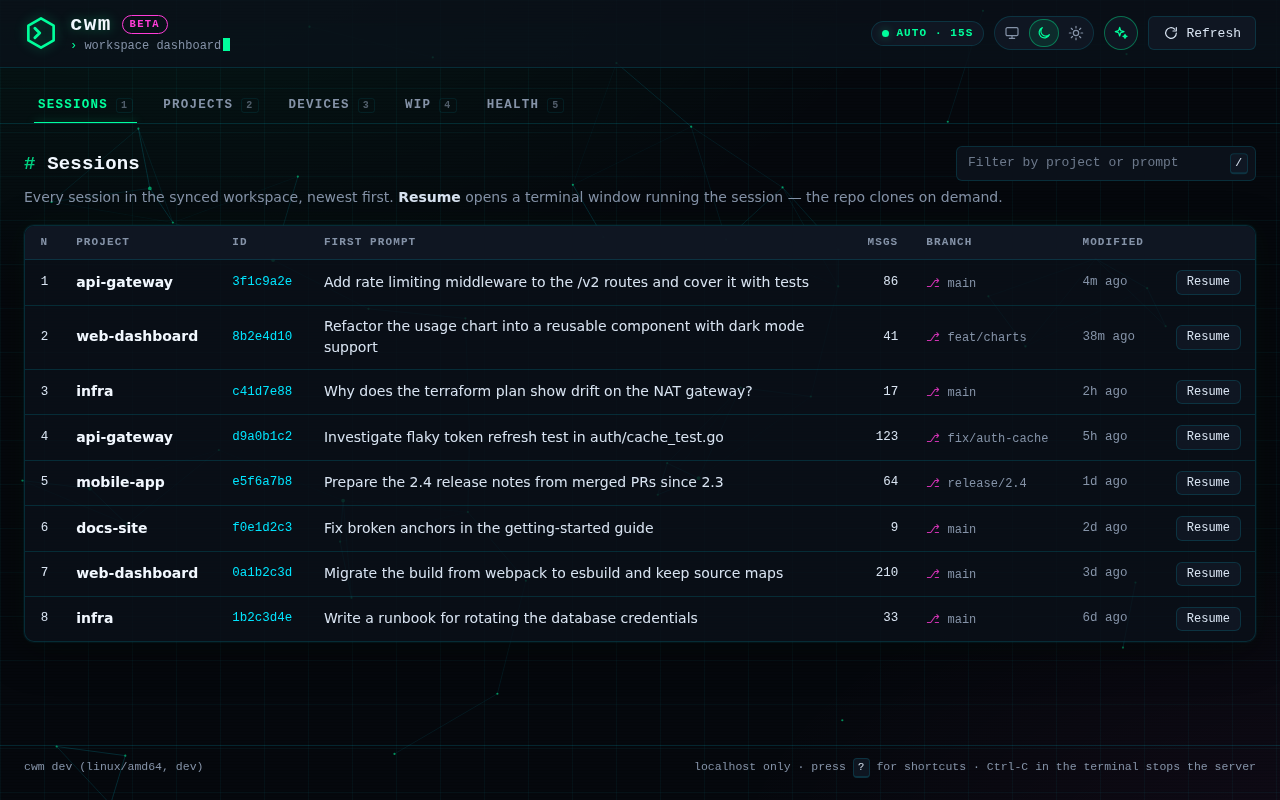
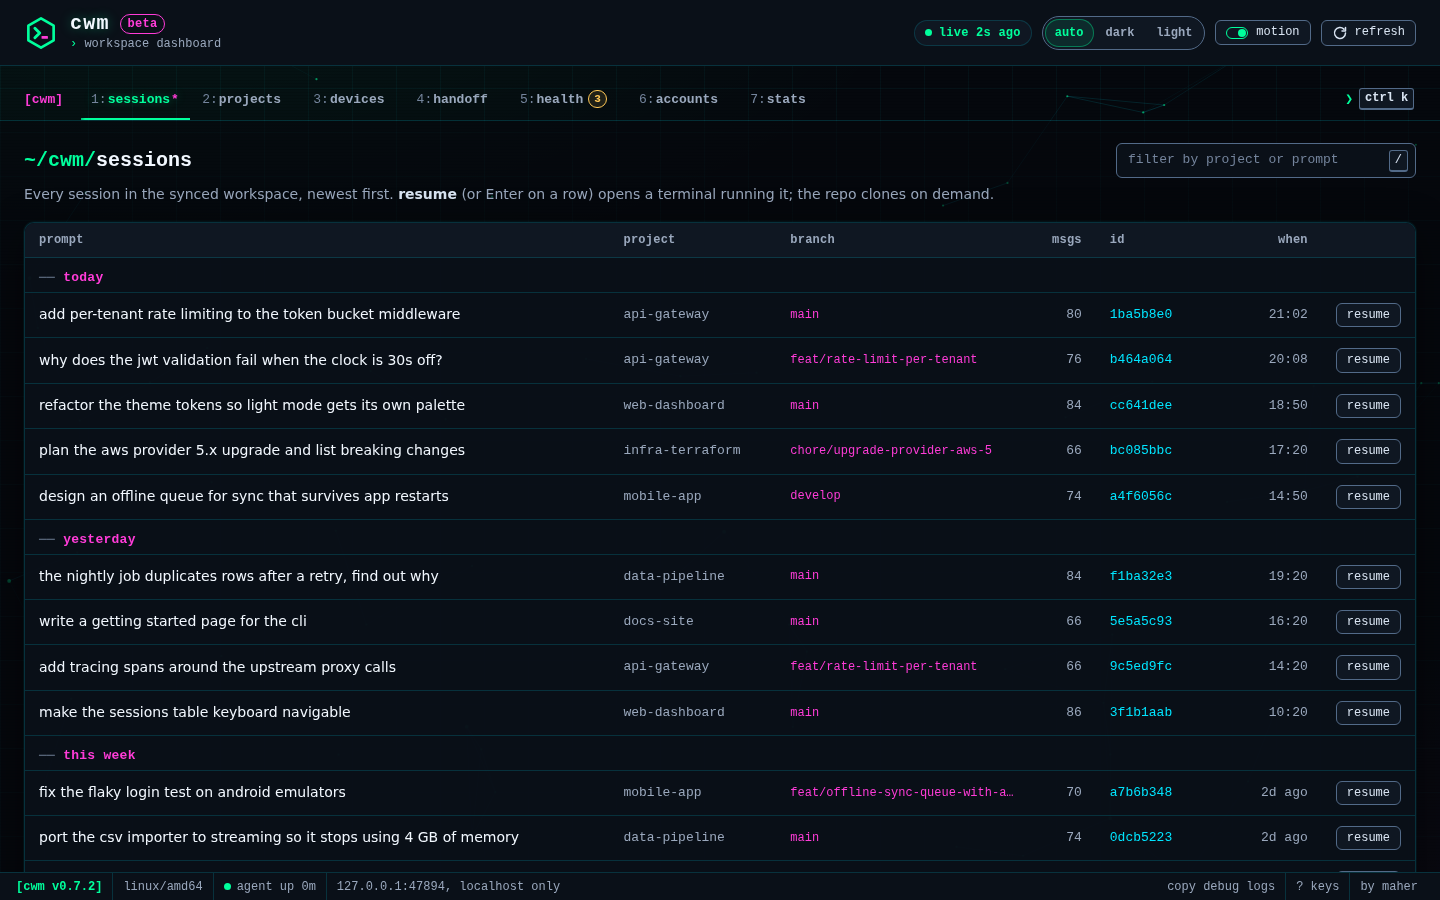
ui(P9): final QA — focus never hides under the statusline, About copy fix, 40 px touch targets, 768 px sessions columns, lowercase labels; README screenshots, QA report

diff --git a/internal/gui/web/app.css b/internal/gui/web/app.css
@@ -133,7 +133,7 @@
 * { box-sizing: border-box; }
 [hidden] { display: none !important; }
 
-html { background: var(--bg); }
+html { background: var(--bg); scroll-padding: 84px 0 calc(var(--statusline-h) + 16px); }
 body {
   margin: 0;
   min-height: 100vh;
@@ -370,6 +370,11 @@ tr.reveal { animation: row-in 360ms var(--ease) both; animation-delay: calc(var(
 .sessions .s-prompt { color: var(--text-strong); max-width: 560px; }
 .sessions .s-proj { font: var(--fs-md)/1.4 var(--font-mono); color: var(--muted); white-space: nowrap; }
 .sessions .s-branch { max-width: 220px; }
+@media (min-width: 721px) and (max-width: 1100px) {
+  .sessions .s-prompt { min-width: 11em; }
+  .sessions .s-branch { max-width: 120px; }
+  .sessions th:nth-child(5), .sessions .s-id { display: none; }
+}
 .sessions .branch { display: block; overflow: hidden; text-overflow: ellipsis; white-space: nowrap; color: var(--magenta); }
 .sessions .branch::before { content: ""; }
 .sessions .s-msgs, .sessions .s-when { color: var(--muted); white-space: nowrap; }
@@ -542,7 +547,7 @@ tbody tr.day-row:hover { background: none; box-shadow: none; }
 
 /* the copyable-command component (D72): [$ command | copy] */
 .cmd {
-  display: flex; align-items: stretch; margin-top: var(--s2); width: min(100%, 640px); min-width: 0;
+  display: flex; align-items: stretch; margin-top: var(--s2); width: fit-content; max-width: min(100%, 640px); min-width: 0;
   background: var(--surface-2); border: 1px solid var(--control-line); border-radius: var(--r-sm); overflow: hidden;
 }
 .cmd-text { flex: 1; min-width: 0; display: flex; align-items: center; overflow-x: auto; white-space: pre; padding: 7px 10px; color: var(--text-strong); background: none; font-size: var(--fs-md); scrollbar-width: thin; }
@@ -905,6 +910,7 @@ button.heat-cell:focus-visible { outline: 2px solid var(--accent-2); outline-off
 
 @media (max-width: 720px) {
   .tabbar, .statusline { display: none; }
+  html { scroll-padding-bottom: calc(72px + env(safe-area-inset-bottom)); }
   .bottombar {
     display: grid; grid-template-columns: repeat(5, 1fr); position: fixed; left: 0; right: 0; bottom: 0; z-index: 6;
     height: calc(56px + env(safe-area-inset-bottom)); padding-bottom: env(safe-area-inset-bottom);
@@ -921,6 +927,8 @@ button.heat-cell:focus-visible { outline: 2px solid var(--accent-2); outline-off
   main, .wizard { padding-bottom: calc(56px + env(safe-area-inset-bottom) + var(--s5)); }
   .toasts { bottom: calc(56px + env(safe-area-inset-bottom) + 12px) !important; }
   .btn, .cmd-copy, .seg-btn, .menu-item { min-height: 40px; }
+  .check-details summary, .link { display: inline-flex; align-items: center; min-height: 40px; }
+  .icon-btn, .acct-more { width: 40px; height: 40px; }
   .seg-text .seg-btn { min-width: 44px; }
   .top { padding: 10px var(--gap); gap: 10px; }
   .mark { width: 30px; height: 30px; }

diff --git a/internal/gui/web/app.js b/internal/gui/web/app.js
@@ -555,7 +555,7 @@
         return show("projects", message("empty", "No projects yet — open a repo via cwm open <name> new to create one."));
       }
       const most = Math.max(1, ...list.map((p) => p.sessions || 0));
-      show("projects", table([col("Project", "lead"), col("Sessions", "num"), col("Activity"), col("Last session", "when")],
+      show("projects", table([col("project", "lead"), col("sessions", "num"), col("activity"), col("last session", "when")],
         list.map((p) => {
           const fill = el("span");
           fill.style.width = Math.round(((p.sessions || 0) / most) * 100) + "%";
@@ -619,7 +619,7 @@
       if (list.length === 0) {
         return show("handoff", message("empty", "Nothing to hand off: every local clone is committed."));
       }
-      show("handoff", table([col("Repo", "lead"), col("Changed", "status"), col("Last commit", "muted wide")], list.map((d) => [
+      show("handoff", table([col("repo", "lead"), col("changed", "status"), col("last commit", "muted wide")], list.map((d) => [
         el("td", null, [el("span", { class: "proj", text: d.name })]),
         el("td", null, [badge("warn", d.changed + " file" + (d.changed === 1 ? "" : "s"))]),
         d.lastCommit,
@@ -2193,9 +2193,10 @@
     $("about-close").addEventListener("click", () => dlg.close());
     dlg.addEventListener("click", (ev) => { if (ev.target === dlg) dlg.close(); });
     $("about-copy").addEventListener("click", async (ev) => {
+      const btn = ev.currentTarget; // null once the await below yields
       if (!aboutData) return;
       const ok = await copyQuiet(aboutSummary(aboutData) + "\n" + JSON.stringify(aboutData, null, 2));
-      flash(ev.currentTarget, ok ? "copied" : "copy failed");
+      flash(btn, ok ? "copied" : "copy failed");
     });
     $("about-update").addEventListener("click", async (ev) => {
       const btn = ev.currentTarget;

diff --git a/internal/gui/web/index.html b/internal/gui/web/index.html
@@ -224,20 +224,20 @@
     <div class="panel-head"><h1 class="path"><span class="path-pre">~/cwm/</span>devices</h1></div>
     <p class="hint">Paired Syncthing peers and their workspace sync progress (same data as <code>cwm devices</code>).</p>
     <div class="card pair-card" id="pair-form">
-      <h3>Pair device</h3>
+      <h3>pair a device</h3>
       <div class="row">
-        <span class="label">This device</span>
+        <span class="label">this device</span>
         <code id="pair-own-id" class="device-id">…</code>
         <button type="button" class="btn btn-small" id="pair-own-id-copy">copy</button>
       </div>
       <div class="row">
-        <label for="pair-device-id">Other device ID</label>
+        <label for="pair-device-id">other device ID</label>
         <input type="text" id="pair-device-id" class="input input-wide" autocomplete="off" spellcheck="false" placeholder="ABCDEFG-HIJKLMN-…">
       </div>
       <div class="row">
-        <label for="pair-name">Name (optional)</label>
+        <label for="pair-name">name (optional)</label>
         <input type="text" id="pair-name" class="input" maxlength="64" autocomplete="off" placeholder="laptop">
-        <button type="button" class="btn btn-primary" id="pair-submit">Pair device</button>
+        <button type="button" class="btn btn-primary" id="pair-submit">pair device</button>
       </div>
       <div class="result" id="pair-result" aria-live="polite"></div>
     </div>

diff --git a/README.md b/README.md
@@ -81,7 +81,7 @@ Claude Code keeps your sessions, memory, skills and MCP setup in one config fold
   </tr>
   <tr>
     <td valign="top"><h4>🗂 Session browser</h4><p>Every session from every device in one list. Resume in one click; the repo clones if it's missing.</p></td>
-    <td valign="top"><h4>🖥 Web dashboard</h4><p>Sessions, Projects, Devices, WIP, Health, Accounts (add, log in, set default, remove) and Stats. Dark/light themes, live updates, phone layout.</p></td>
+    <td valign="top"><h4>🖥 Web dashboard</h4><p>Sessions, Projects, Devices, handoff, Health, Accounts (add, log in, set default, remove) and Stats, in a tmux-style frame with a Ctrl-K command palette. Dark/light themes, live updates, phone layout with a bottom bar.</p></td>
     <td valign="top"><h4>⚡ Always on</h4><p>A small per-user agent starts at login and serves a bookmarkable dashboard. No admin rights.</p></td>
   </tr>
   <tr>
@@ -106,24 +106,24 @@ Claude Code keeps your sessions, memory, skills and MCP setup in one config fold
     <td colspan="2" valign="top" align="center">
       <picture>
         <source media="(prefers-color-scheme: light)" srcset="docs/img/gui-stats-light.png">
-        <img alt="Stats tab, dark theme: KPI cards, a 53-week activity heatmap with a tooltip, top projects, top models and token kinds (generated demo data)" src="docs/img/gui-stats-dark.png" width="100%">
+        <img alt="Stats tab, dark theme: KPI cards, the 12-month activity heatmap, top projects, top models and the billed/cache token bars (generated demo data)" src="docs/img/gui-stats-dark.png" width="100%">
       </picture><br>
       <sub><b>Stats</b>: activity from your local transcripts (demo data)</sub>
     </td>
   </tr>
   <tr>
     <td width="68%" valign="top" align="center">
-      <img alt="Health tab, dark theme: cwm doctor checks with ok, warn and fail status pills" src="docs/img/gui-health-dark.png" width="100%"><br>
-      <sub><b>Health</b>: the <code>cwm doctor</code> checks at a glance</sub>
+      <img alt="Health tab, dark theme: a boot log with the problems first, each with a plain why and a copyable fix command" src="docs/img/gui-health-dark.png" width="100%"><br>
+      <sub><b>Health</b>: what to fix first, and the command that fixes it</sub>
     </td>
     <td width="32%" valign="top" align="center" rowspan="2">
-      <img alt="Sessions tab on a phone: each session as a card with a full-width Resume button" src="docs/img/gui-sessions-mobile-dark.png" width="100%"><br>
-      <sub><b>Mobile</b>: tables turn into cards</sub>
+      <img alt="Sessions tab on a phone: sessions grouped by day as cards with a full-width resume button, and the bottom bar" src="docs/img/gui-sessions-mobile-dark.png" width="100%"><br>
+      <sub><b>Mobile</b>: session cards and a bottom bar</sub>
     </td>
   </tr>
   <tr>
     <td width="68%" valign="top" align="center">
-      <img alt="Setup wizard, light theme: step 1, initialize the workspace" src="docs/img/gui-wizard-light.png" width="100%"><br>
+      <img alt="Setup wizard, light theme: the step rail, step 1 (initialize the workspace) and the live setup log" src="docs/img/gui-wizard-light.png" width="100%"><br>
       <sub><b>Setup wizard</b>: init, account login and pairing</sub>
     </td>
   </tr>

diff --git a/docs/ui/QA-V0.7.2.md b/docs/ui/QA-V0.7.2.md
@@ -1,0 +1,32 @@
+# v0.7.2 final QA (P9)
+
+Run against generated demo data (6 projects, 25 sessions, 2 accounts, 12
+months of stats, a fresh box's health warnings, Syncthing not set up) with a
+headless Chromium driven over CDP: real key events, emulated
+`prefers-color-scheme` and `prefers-reduced-motion`.
+
+| # | Check | Result |
+|---|---|---|
+| 1 | `scripts/contrast-check.js`, both themes | 134 pairs, 0 failed |
+| 2 | Keyboard-only walk: every tab at 1440 and 390 px; `1`–`7`, arrow keys, `#wip` → `#handoff`; Ctrl-K open / run / Esc (focus returns); `?` help; About from the statusline (focus stays in the modal, copy → copied, Esc returns focus); accounts ⋯ menu and the typed remove modal; "more" sheet; header ⋯ menu | pass after fixes below |
+| 3 | Reduced motion: no running animations in any view or dialog, no `requestAnimationFrame` loop; with motion allowed the canvas runs and stops when motion is switched off | pass |
+| 4 | CSP: no inline handlers, inline scripts or style attributes; no CSP violations, console errors or non-local requests at runtime; external links only `target=_blank rel=noopener noreferrer` to github.com/Mr-JoE1 | pass after fixes below |
+| 5 | Asset budget (D71: 200 KB raw, < 60 KB gzip) | 200,814 B raw, 52,794 B gzip |
+| 6 | Screenshots, every view × 390/768/1440 × dark/light, plus About, Ctrl-K, remove modal, first-run wizard and done screen, mobile "more" sheet | taken and reviewed |
+
+## Failures found and fixed
+
+| View | Issue | Fix |
+|---|---|---|
+| sessions, devices (all widths) | A row or button reached by Tab could sit under the fixed statusline (desktop) or the bottom bar (mobile) | `scroll-padding` on `html` for the sticky header, statusline and bottom bar |
+| About | "copy version info" never changed to "copied": the handler read `ev.currentTarget` after an `await` (null by then) and threw | capture the button before the `await` |
+| health, devices, accounts (< 720 px) | "details" toggles, the "report a bug" link and the ⋯ account menu were under 40 px tall | 40 px minimum on touch layouts |
+| sessions (721–1100 px) | prompt column squeezed to a few words per line by the branch and id columns | prompt min width, narrower branch, id column hidden in that range |
+| health | copyable-command boxes had uneven widths | the box sizes to its command, capped at 640 px |
+| projects, handoff, devices | Title Case column labels and pair-form labels | lowercase labels |
+
+## Accepted
+
+| View | Note |
+|---|---|
+| stats (390 px) | Heatmap cells are 9 px (the P7 minimum) and below the 40 px tap size; the grid is reached with one Tab stop and the arrow keys (roving tabindex), and every cell has a tooltip. |
